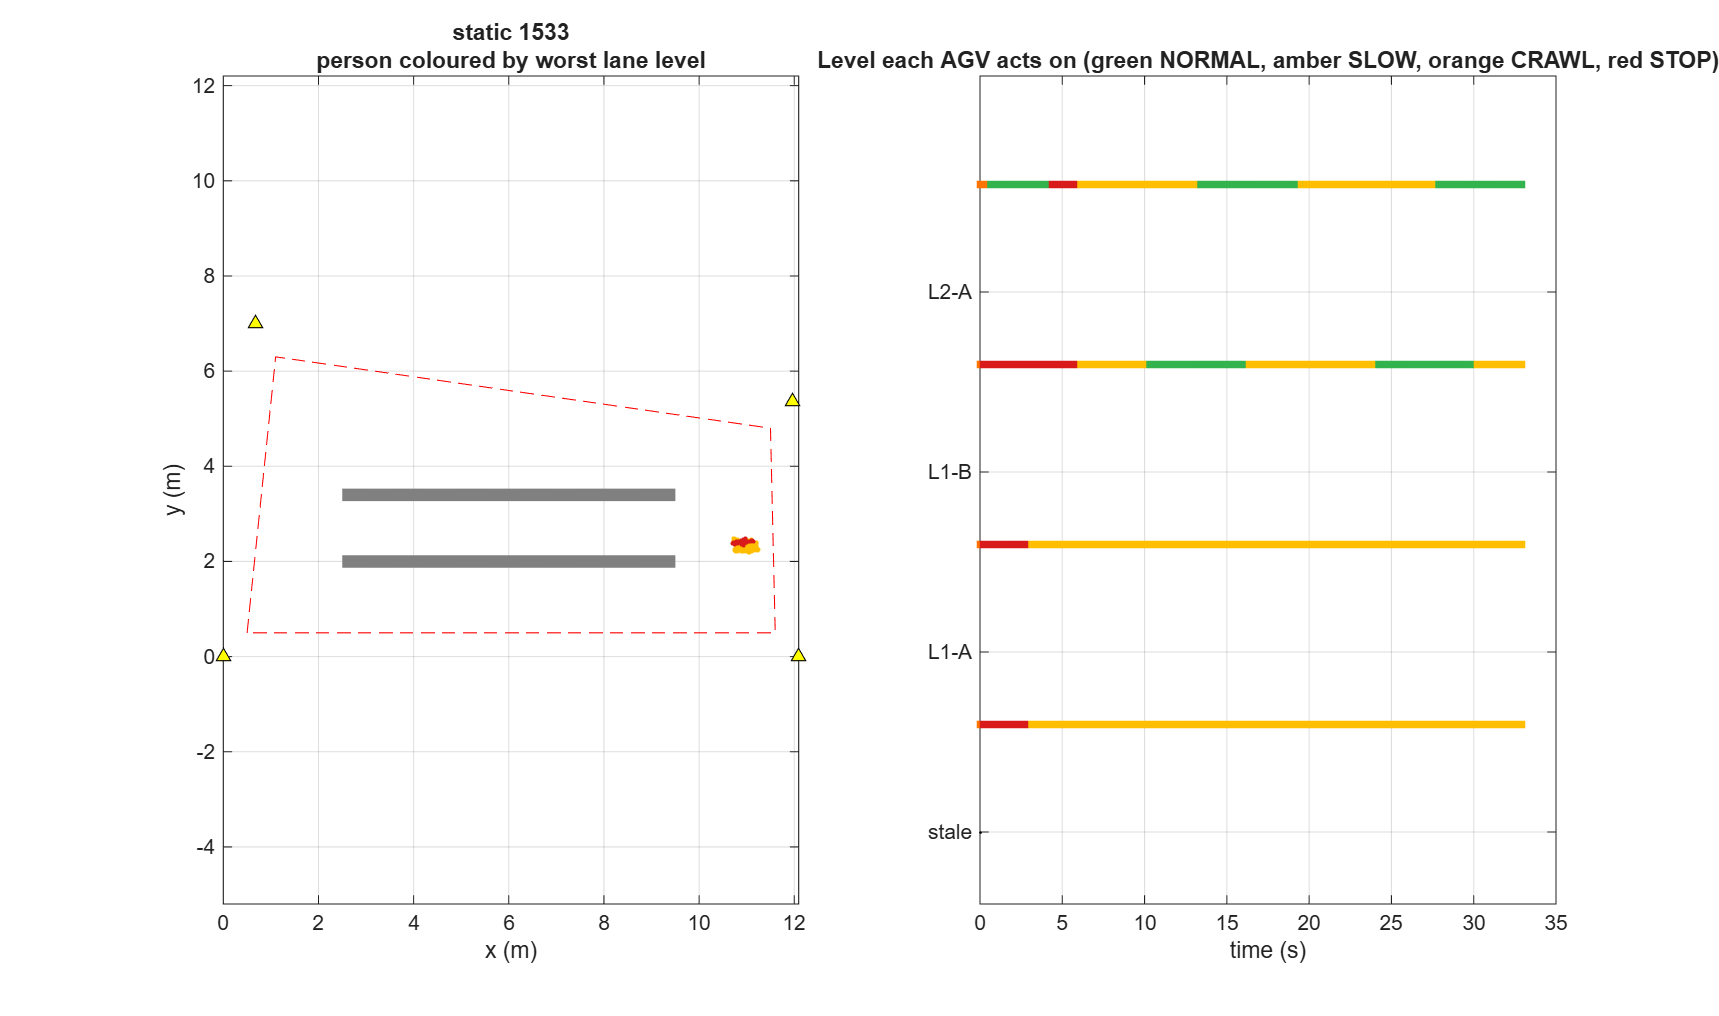
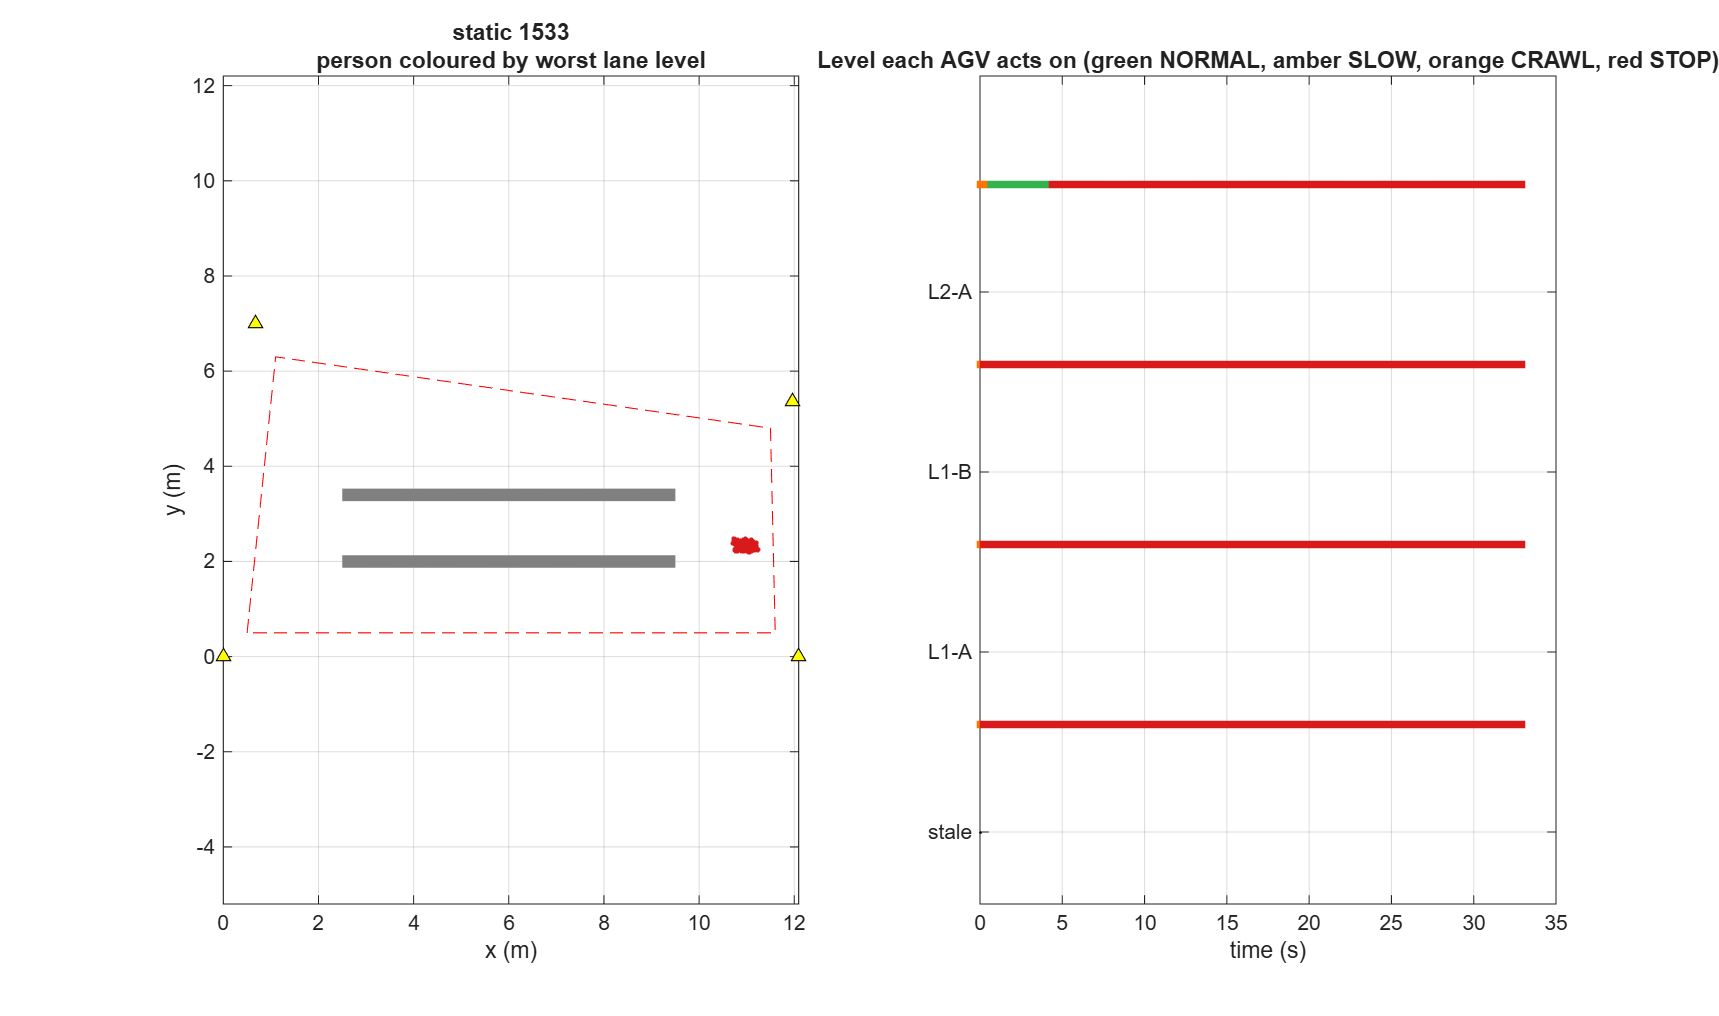
Fix MATLAB legacy RNG conflict and timeline labels
phaseA_selftest used rand('seed'), which switches MATLAB to the legacy generator and makes rng() fail in Phase D; both now use rng(seed,'twister'). phaseC_offline timeline y-labels aligned with their rows.

diff --git a/phaseA_selftest.m b/phaseA_selftest.m
@@ -41,7 +41,7 @@ dBad = d; dBad(1) = dBad(1) + 1.0;
 ok = info.resRMS > 0.2;                                        T(end+1,:) = {'trilat: 1 m range error -> large residual (E3b)', ok};
 
 %% 3. Kalman filter: straight walk at 0.8 m/s with 15 cm noise
-randn('seed', 1); rand('seed', 1); %#ok<RAND>
+rng(1, 'twister');                 % modern generator (legacy rand('seed') breaks rng later)
 dt = 0.04; t = (0:dt:20)'; v = [0.8 0];
 P = [1 2.5] + t * v;
 Z = P + 0.15 * randn(size(P));

diff --git a/phaseC_offline.m b/phaseC_offline.m
@@ -61,7 +61,7 @@ for r = 1:numel(recs)
             end
         end
         plot(tt(Lg.stale), 0.4 + 0 * tt(Lg.stale), 'k.', 'MarkerSize', 4);
-        set(gca, 'YTick', 0.4:1:nA, 'YTickLabel', [{'stale'} Lg.agvNames], 'YLim', [0 nA + 0.6]);
+        set(gca, 'YTick', [0.4 1:nA], 'YTickLabel', [{'stale'} Lg.agvNames], 'YLim', [0 nA + 0.6]);
         xlabel('time (s)'); title('Level each AGV acts on (green NORMAL, amber SLOW, orange CRAWL, red STOP)');
     end
 end

diff --git a/Scenarios/phaseD_seed.m b/Scenarios/phaseD_seed.m
@@ -1,7 +1,7 @@
 function phaseD_seed(seed)
 %PHASED_SEED  Set the random generator so every run can be repeated exactly.
 if exist('rng', 'file') || exist('rng', 'builtin')
-    rng(seed);
+    rng(seed, 'twister');      % explicit type: also works if something switched MATLAB to the legacy generator
 else
     rand('seed', seed); %#ok<RAND>
 end

diff --git a/TUNING_RESULTS.md b/TUNING_RESULTS.md
@@ -1,6 +1,6 @@
 # Phase B - tuning results
 
-Generated by `phaseB_tuning.m` on 2026-10-30 14:22 from: static_1533, underA3_1620, walk1_1704, walk2
+Generated by `phaseB_tuning.m` on 2026-10-30 14:24 from: static_1533, underA3_1620, walk1_1704, walk2
 
 | Setting | Value | Evidence |
 |---|---|---|
